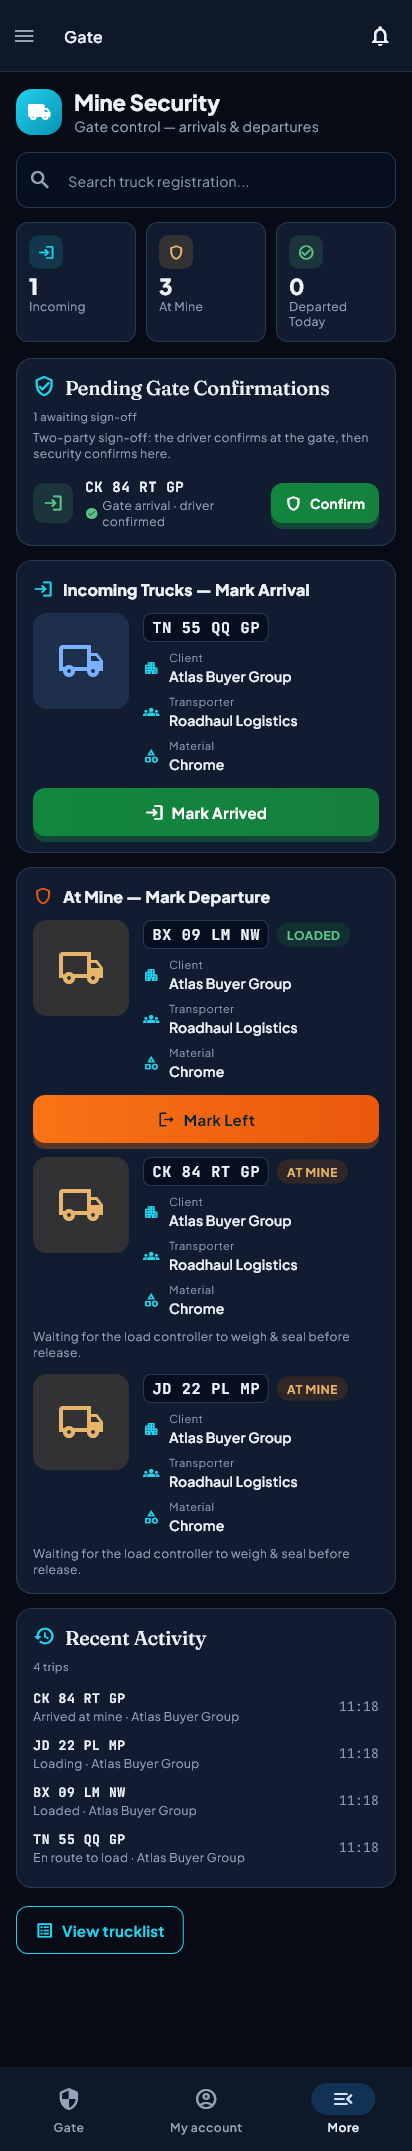
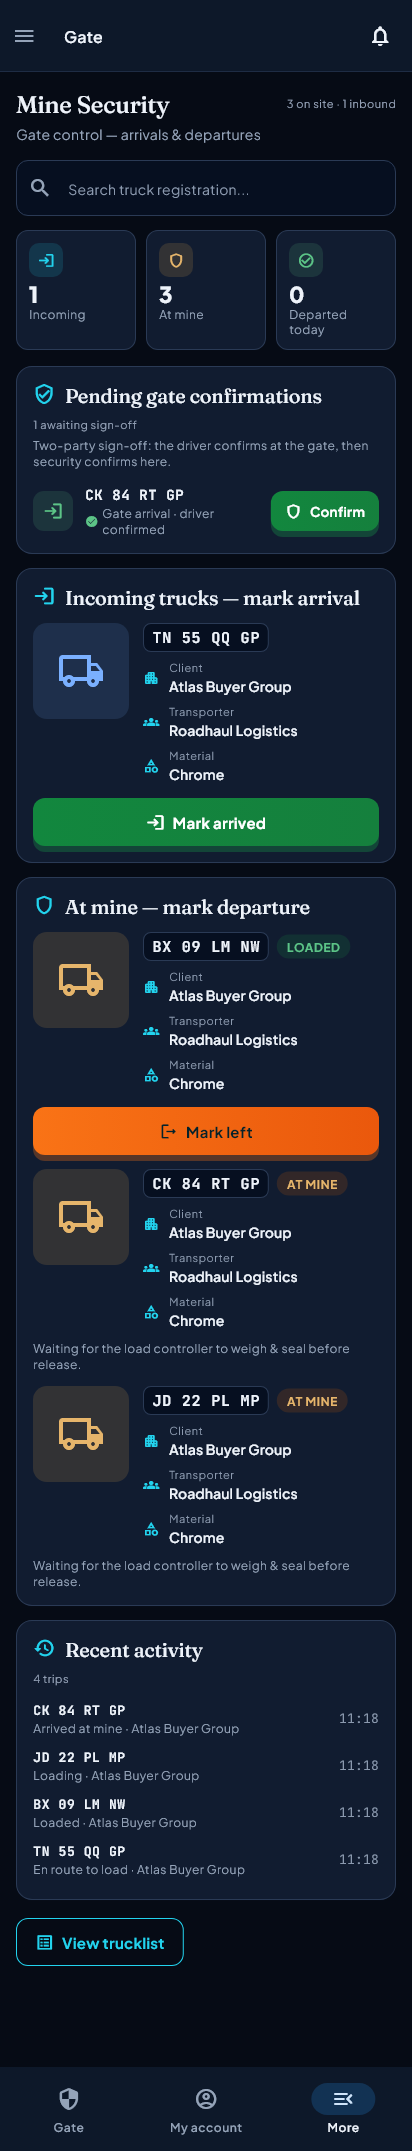
fix(mine): the gate screen heads itself in the display face, and its labels read in sentence case
Phase 3 mine-portal pass, 2026-08-23. Security's gate screen opened with a
hand-rolled 22px sans ExtraBold "Mine Security" beside a gradient brand chip
— the one portal title not in Fraunces, next door to the Load Controller's
MlPageHeader — and headed two of its four sections ("Incoming Trucks — Mark
Arrival", "At Mine — Mark Departure") in 16px sans ExtraBold while the other
two were already MlSectionTitle. One screen, two heading faces: the class
the console pass found on six screens (HANDOFF §3.25 #1). Its labels were
title case ("At Mine", "Departed Today", "Mark Arrived", "Mark Left",
"Pending Gate Confirmations", "Recent Activity") against the reference's
sentence case everywhere (#3).

Now MlPageHeader with a meta a guard reads first ("3 on site · 1 inbound"),
MlSectionTitle for all four sections (the dead `iconColor` on _GateSection
goes with it — the shared heading paints its icon in the accent), and
sentence case throughout. The 520px phone-first column is the original's and
stays.

Pinned by security_gate_heads_test.dart: every heading's fontFamily is
Fraunces and the recased labels are present with the title-cased ones
absent; the existing mine_floor_labels_test follows the rename so it keeps
measuring truncation on the same chips. Sabotaged by stashing the screen:
'"Mine Security" is not in Fraunces' / '"At mine" missing'. Both security
renders regenerated and looked at (desktop and phone).

Changed region(s): [[0.0291, 0.0311, 0.9612, 0.9344], [0.699, 0.0311, 0.7573, 0.0623]]

diff --git a/lib/features/portal/screens/security_checkin_screen.dart b/lib/features/portal/screens/security_checkin_screen.dart
@@ -226,51 +226,22 @@ class _SecurityCheckinScreenState extends ConsumerState<SecurityCheckinScreen> {
               child: Column(
                 crossAxisAlignment: CrossAxisAlignment.start,
                 children: [
-                  // ---- Kit header: brand chip + title + subtitle ----
-                  Row(
-                    children: [
-                      Container(
-                        width: 46,
-                        height: 46,
-                        alignment: Alignment.center,
-                        decoration: BoxDecoration(
-                          gradient: const LinearGradient(
-                            begin: Alignment.topLeft,
-                            end: Alignment.bottomRight,
-                            colors: [MlTokens.cyan400, MlTokens.cyan600],
-                          ),
-                          borderRadius: MlShape.radiusLarge,
-                        ),
-                        child: const Icon(
-                          Icons.local_shipping_rounded,
-                          size: 24,
-                          color: MlTokens.inkOnFill,
-                        ),
-                      ),
-                      const SizedBox(width: 12),
-                      Expanded(
-                        child: Column(
-                          crossAxisAlignment: CrossAxisAlignment.start,
-                          children: [
-                            Text(
-                              'Mine Security',
-                              style: context.mlText.titleLarge.copyWith(
-                                color: semantic.textStrong,
-                                fontWeight: FontWeight.w800,
-                              ),
-                            ),
-                            Text(
-                              'Gate control — arrivals & departures',
-                              style: context.mlText.bodyMedium.copyWith(
-                                color: semantic.textMuted,
-                              ),
-                            ),
-                          ],
-                        ),
-                      ),
-                    ],
+                  // ---- Page header ----
+                  //
+                  // `MlPageHeader`, like the Load Controller's "Mine Control"
+                  // next door. Until 2026-08-23 this was a hand-rolled
+                  // 22px sans ExtraBold beside a gradient brand chip — the
+                  // one portal title not in the display face, on the screen
+                  // whose sibling already was (the class the console pass
+                  // found on six screens, HANDOFF §3.25). The meta is the
+                  // one fact a guard reads first.
+                  MlPageHeader(
+                    title: 'Mine Security',
+                    description: 'Gate control — arrivals & departures',
+                    meta: '${onSite.length + loadedReady.length} on site · '
+                        '${inbound.length} inbound',
+                    padding: const EdgeInsets.only(bottom: 16),
                   ),
-                  const SizedBox(height: 16),
                   TextField(
                     controller: _controller,
                     textCapitalization: TextCapitalization.characters,
@@ -329,7 +300,7 @@ class _SecurityCheckinScreenState extends ConsumerState<SecurityCheckinScreen> {
                           child: _MiniStat(
                             icon: Icons.shield_outlined,
                             value: '${onSite.length + loadedReady.length}',
-                            label: 'At Mine',
+                            label: 'At mine',
                             tone: MlTone.atMine,
                           ),
                         ),
@@ -338,7 +309,7 @@ class _SecurityCheckinScreenState extends ConsumerState<SecurityCheckinScreen> {
                           child: _MiniStat(
                             icon: Icons.check_circle_outline,
                             value: '$departedToday',
-                            label: 'Departed Today',
+                            label: 'Departed today',
                             tone: MlTone.done,
                           ),
                         ),
@@ -411,8 +382,7 @@ class _SecurityCheckinScreenState extends ConsumerState<SecurityCheckinScreen> {
                     ..._orderedGateSections(
                       arrivals: _GateSection(
                         icon: Icons.login_rounded,
-                        iconColor: MlTokens.accent,
-                        title: 'Incoming Trucks — Mark Arrival',
+                        title: 'Incoming trucks — mark arrival',
                         child: inbound.isEmpty
                             ? _EmptyLine(
                                 'No incoming trucks right now — new arrivals appear here.',
@@ -432,7 +402,7 @@ class _SecurityCheckinScreenState extends ConsumerState<SecurityCheckinScreen> {
                                       trip: inbound[i],
                                       tone: MlTone.transit,
                                       action: MlButton.go(
-                                        label: 'Mark Arrived',
+                                        label: 'Mark arrived',
                                         icon: Icons.login_rounded,
                                         expand: true,
                                         onPressed: () =>
@@ -452,8 +422,7 @@ class _SecurityCheckinScreenState extends ConsumerState<SecurityCheckinScreen> {
                       ),
                       departures: _GateSection(
                         icon: Icons.shield_outlined,
-                        iconColor: MlTokens.orange600,
-                        title: 'At Mine — Mark Departure',
+                        title: 'At mine — mark departure',
                         child: (onSite.isEmpty && loadedReady.isEmpty)
                             ? _EmptyLine('No trucks at the mine right now.')
                             : Column(
@@ -474,7 +443,7 @@ class _SecurityCheckinScreenState extends ConsumerState<SecurityCheckinScreen> {
                                         loadedReady[i].status.label,
                                       ),
                                       action: MlButton.leave(
-                                        label: 'Mark Left',
+                                        label: 'Mark left',
                                         icon: Icons.logout_rounded,
                                         expand: true,
                                         onPressed: () => _markGone(
@@ -514,7 +483,7 @@ class _SecurityCheckinScreenState extends ConsumerState<SecurityCheckinScreen> {
                         crossAxisAlignment: CrossAxisAlignment.start,
                         children: [
                           MlSectionTitle(
-                            'Recent Activity',
+                            'Recent activity',
                             meta: mlCount(recent.length, 'trip'),
                             icon: Icons.history_rounded,
                             margin: const EdgeInsets.only(bottom: 8),
@@ -695,7 +664,7 @@ class _PendingGateConfirmationsState
           crossAxisAlignment: CrossAxisAlignment.stretch,
           children: [
             MlSectionTitle(
-              'Pending Gate Confirmations',
+              'Pending gate confirmations',
               meta: mlCount(rows.length, 'awaiting sign-off'),
               icon: Icons.verified_user_outlined,
               margin: const EdgeInsets.only(bottom: 4),
@@ -854,41 +823,32 @@ class _MiniStat extends StatelessWidget {
 
 class _GateSection extends StatelessWidget {
   final IconData icon;
-  final Color iconColor;
   final String title;
   final Widget child;
 
   const _GateSection({
     required this.icon,
-    required this.iconColor,
     required this.title,
     required this.child,
   });
 
   @override
   Widget build(BuildContext context) {
-    final semantic = MlSemantic.of(context);
     return MlCard(
       padding: const EdgeInsets.all(16),
       child: Column(
         crossAxisAlignment: CrossAxisAlignment.stretch,
         children: [
-          Row(
-            children: [
-              Icon(icon, size: 20, color: iconColor),
-              const SizedBox(width: 10),
-              Expanded(
-                child: Text(
-                  title,
-                  style: context.mlText.titleMedium.copyWith(
-                    color: semantic.textStrong,
-                    fontWeight: FontWeight.w800,
-                  ),
-                ),
-              ),
-            ],
+          // The section heading in the reference's vocabulary — Fraunces via
+          // `MlSectionTitle`, as "Pending gate confirmations" and "Recent
+          // activity" on this same screen already are. It was a 16px sans
+          // ExtraBold row until 2026-08-23, so one screen headed its four
+          // sections in two faces.
+          MlSectionTitle(
+            title,
+            icon: icon,
+            margin: const EdgeInsets.only(bottom: 12),
           ),
-          const SizedBox(height: 12),
           child,
         ],
       ),

diff --git a/test/features/portal/security_gate_heads_test.dart b/test/features/portal/security_gate_heads_test.dart
@@ -1,0 +1,112 @@
+// The gate screen heads itself the way the rest of the portal does.
+//
+// Phase 3 mine-portal pass, 2026-08-23. Security's screen opened with a
+// hand-rolled 22px sans ExtraBold title beside a gradient chip — the one
+// portal title not in the display face, next door to the Load Controller's
+// `MlPageHeader` — and headed two of its four sections ("Incoming Trucks —
+// Mark Arrival", "At Mine — Mark Departure") in 16px sans ExtraBold while the
+// other two ("Pending Gate Confirmations", "Recent Activity") were already
+// Fraunces. One screen, two heading faces. Its labels were also title case
+// against the reference's sentence case throughout ("Total companies",
+// "Register company"). This pins the face of every heading by `fontFamily`
+// and the casing by presence/absence of the strings.
+
+import 'package:flutter/material.dart';
+import 'package:flutter/rendering.dart';
+import 'package:flutter_riverpod/flutter_riverpod.dart';
+import 'package:flutter_test/flutter_test.dart';
+import 'package:shared_preferences/shared_preferences.dart';
+import 'package:supabase_flutter/supabase_flutter.dart';
+
+import 'package:flutter_application_1/core/design/tokens/ml_tokens.dart';
+import 'package:flutter_application_1/core/theme/app_theme.dart';
+import 'package:flutter_application_1/features/auth/models/user_type.dart';
+import 'package:flutter_application_1/features/portal/screens/security_checkin_screen.dart';
+
+import '../../fixtures/portal_capture_fixtures.dart';
+import '../../fixtures/screen_fixtures.dart';
+import '../../test_helpers/real_fonts.dart';
+import '../../test_helpers/frozen_clock.dart';
+
+void main() {
+  setUpAll(() async {
+    freezeCaptureClock();
+    await loadRealFonts();
+    SharedPreferences.setMockInitialValues({});
+    await Supabase.initialize(
+      url: 'http://localhost:54321',
+      anonKey: 'security-gate-heads-test',
+    );
+  });
+
+  Future<void> pumpGate(WidgetTester tester) async {
+    tester.view.physicalSize = const Size(1400, 2400);
+    tester.view.devicePixelRatio = 1.0;
+    addTearDown(tester.view.reset);
+
+    await tester.pumpWidget(ProviderScope(
+      overrides: [
+        ...companyScopeOverrides(
+            role: UserRole.security, orgType: OrgType.mineSupplier),
+        ...portalCaptureOverrides(),
+      ],
+      child: MaterialApp(
+        theme: AppTheme.darkTheme,
+        home: const Scaffold(body: SecurityCheckinScreen()),
+      ),
+    ));
+    await tester.pump();
+    await tester.pump(const Duration(milliseconds: 400));
+  }
+
+  String? familyOf(WidgetTester tester, String text) {
+    final paragraph =
+        find.text(text).evaluate().single.renderObject! as RenderParagraph;
+    return paragraph.text.style?.fontFamily;
+  }
+
+  testWidgets('the title and every section heading are in the display face',
+      (tester) async {
+    await pumpGate(tester);
+
+    for (final heading in const [
+      'Mine Security',
+      'Pending gate confirmations',
+      'At mine — mark departure',
+      'Incoming trucks — mark arrival',
+      'Recent activity',
+    ]) {
+      expect(find.text(heading), findsOneWidget,
+          reason: '"$heading" is not on the gate screen');
+      expect(familyOf(tester, heading), MlTokens.fontSerif,
+          reason: '"$heading" is not in Fraunces');
+    }
+  });
+
+  testWidgets('labels are sentence case, like the rest of the portal',
+      (tester) async {
+    await pumpGate(tester);
+
+    for (final label in const [
+      'At mine',
+      'Departed today',
+      'Mark arrived',
+      'Mark left',
+    ]) {
+      expect(find.text(label), findsWidgets, reason: '"$label" missing');
+    }
+    for (final stale in const [
+      'At Mine',
+      'Departed Today',
+      'Mark Arrived',
+      'Mark Left',
+      'Pending Gate Confirmations',
+      'Recent Activity',
+      'Incoming Trucks — Mark Arrival',
+      'At Mine — Mark Departure',
+    ]) {
+      expect(find.text(stale), findsNothing,
+          reason: '"$stale" is title case again');
+    }
+  });
+}

diff --git a/test/features/portal/mine_floor_labels_test.dart b/test/features/portal/mine_floor_labels_test.dart
@@ -82,7 +82,7 @@ void main() {
           'x $scale', (tester) async {
         await pumpGate(tester, width: width, textScale: scale);
 
-        for (final label in const ['Incoming', 'At Mine', 'Departed Today']) {
+        for (final label in const ['Incoming', 'At mine', 'Departed today']) {
           final found = truncations(tester, label);
           expect(found, isNotEmpty,
               reason: '"$label" is not on the gate screen at all. If a chip '
